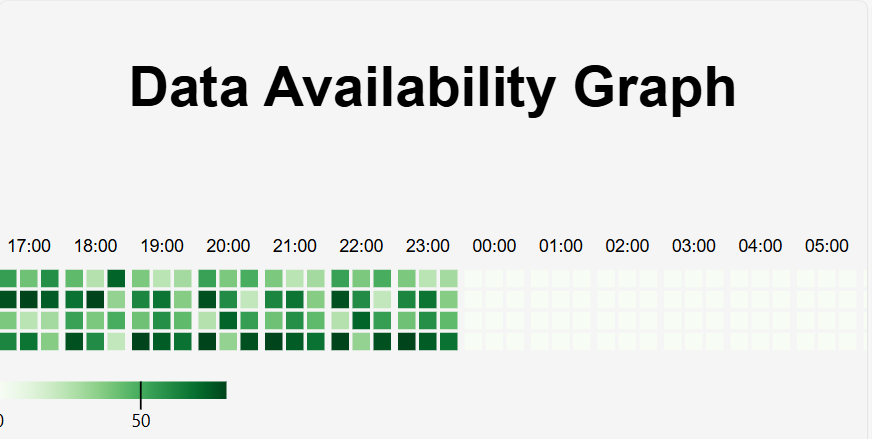
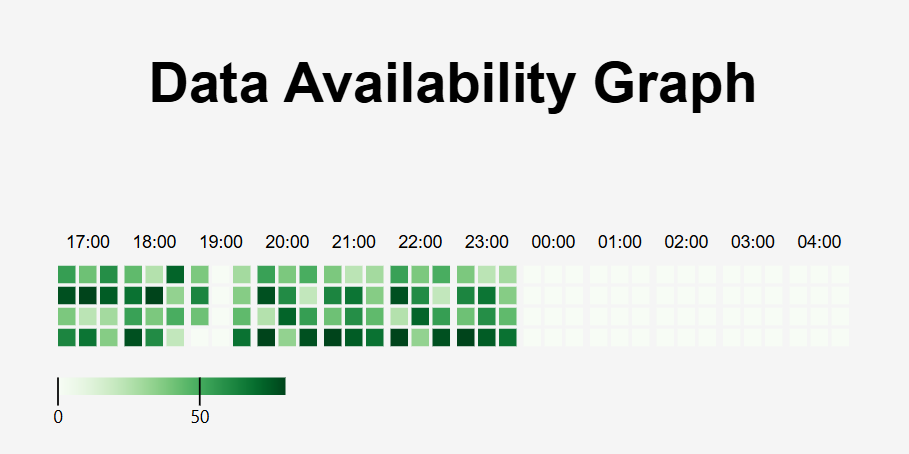
update sample data for demo

Changed region(s): [[0.0, 0.5034, 0.9908, 0.7995], [0.1239, 0.1185, 0.867, 0.2665], [0.031, 0.8292, 0.3406, 0.9772]]

diff --git a/public/app.js b/public/app.js
@@ -17,7 +17,7 @@ fetch('/api/data')
         x: 'date',
         y: 'value'
       },
-      range: 24,
+      range: 12,
       domain: { type: 'hour', label: { position: 'top' } },
       subDomain: { type: 'fiveMin' },
       scale: { color: { type: 'diverging', scheme: 'Greens', domain: [0, 60], symmetric: true, pivot: 40 } },
